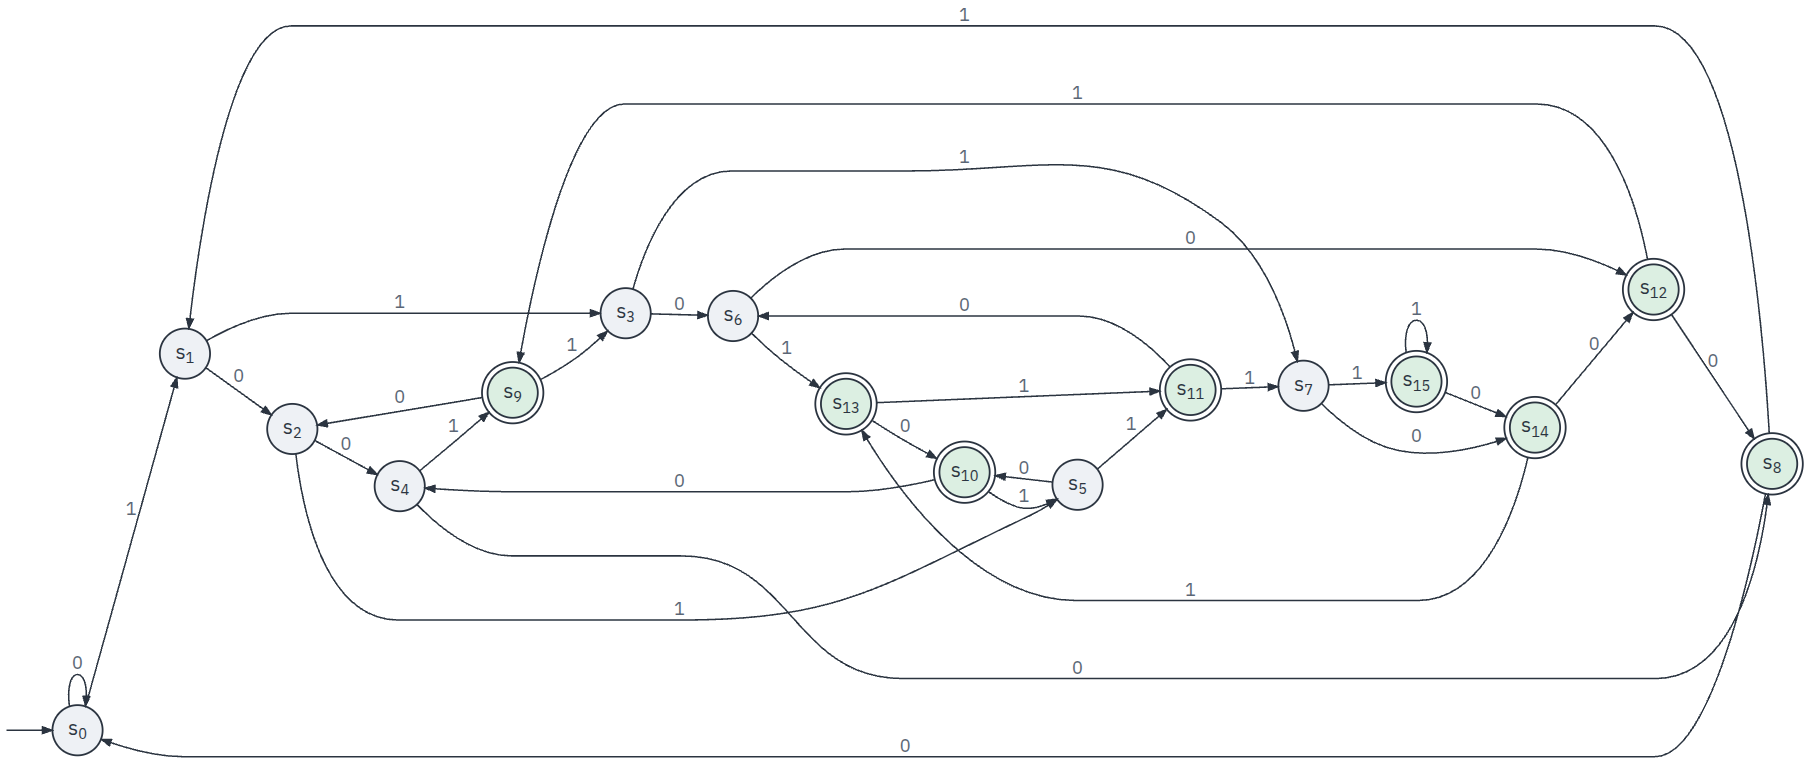
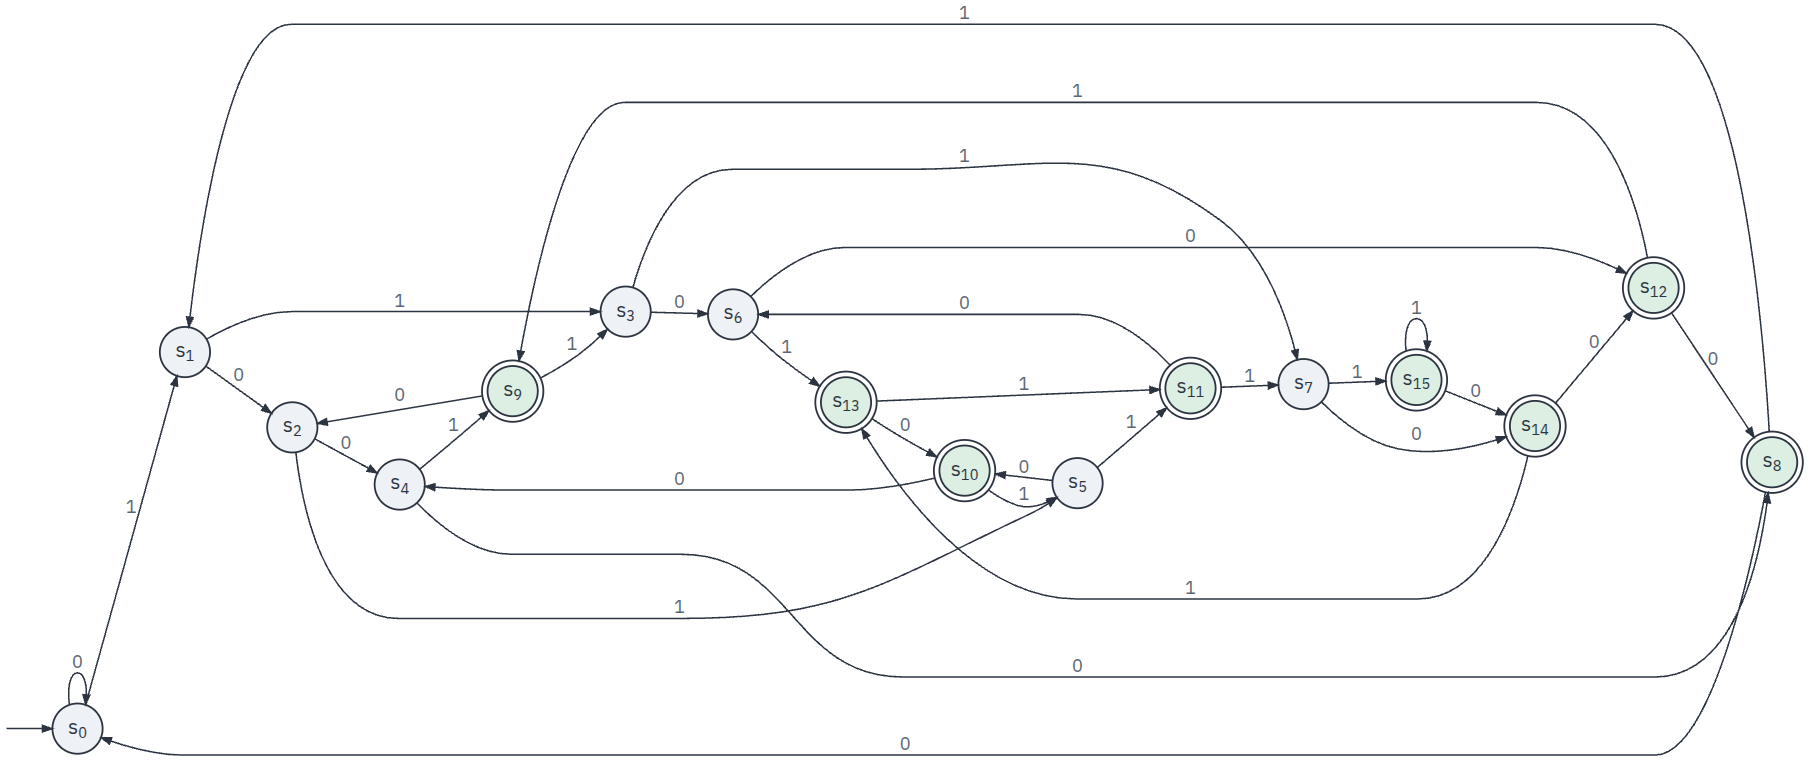
Front page: sections in a new order, programming languages as tiles, dark Automatron pictures

diff --git a/src/static/include/default.css b/src/static/include/default.css
@@ -4636,3 +4636,77 @@ img.minicpu-shot.medium {
 .tool-card-text span { color: var(--bs-secondary-color); font-size: 0.92em; }
 .tool-card-open { white-space: nowrap; color: var(--bs-primary); font-weight: 600; }
 .tool-card-open .bi { margin-left: 0.4em; }
+
+/* Programming languages on the start page (tiles: true in sections.yaml):
+   small tiles with logo, name and year. The logo sits on a light plate in
+   both themes, many logos are dark. */
+.lang-tiles {
+    display: grid;
+    grid-template-columns: repeat(auto-fill, minmax(8.5em, 1fr));
+    gap: 0.9em;
+    margin-bottom: 2.5em;
+}
+
+.lang-tile {
+    display: flex;
+    flex-direction: column;
+    align-items: center;
+    gap: 0.15em;
+    padding: 0.6em 0.6em 0.7em;
+    border: 1px solid var(--bs-border-color);
+    border-radius: 0.6em;
+    background: var(--bs-body-bg);
+    color: var(--bs-body-color);
+    text-decoration: none;
+    box-shadow: 0 0.1em 0.35em rgba(0, 0, 0, 0.06);
+    transition: box-shadow 0.2s ease;
+}
+
+.lang-tile:hover {
+    color: var(--bs-body-color);
+    box-shadow: 0 0.2em 0.7em rgba(0, 0, 0, 0.18);
+}
+
+.lang-tile-logo {
+    display: flex;
+    align-items: center;
+    justify-content: center;
+    width: 100%;
+    height: 4.4em;
+    margin-bottom: 0.35em;
+    padding: 0.35em;
+    border-radius: 0.4em;
+    background: #fff;
+}
+
+.lang-tile-logo img {
+    max-width: 100%;
+    max-height: 100%;
+    object-fit: contain;
+}
+
+.lang-tile-name {
+    font-weight: 600;
+    line-height: 1.2;
+    text-align: center;
+}
+
+.lang-tile-year {
+    font-size: 0.8em;
+    color: var(--bs-secondary-color);
+}
+
+@media (max-width: 575.999999px) {
+    .lang-tiles {
+        grid-template-columns: repeat(3, minmax(0, 1fr));
+        gap: 0.6em;
+    }
+
+    .lang-tile-logo {
+        height: 3.4em;
+    }
+
+    .lang-tile-name {
+        font-size: 0.9em;
+    }
+}

diff --git a/src/ruby/main.rb b/src/ruby/main.rb
@@ -4675,10 +4675,29 @@ class Main < Sinatra::Base
                     if section[:description]
                         io.puts "<p style='margin-top: -1em; margin-bottom: 1em;'>#{section[:description]}</p>"
                     end
-                    io.puts "<div class='row'>"
                     entries = section[:entries].reject do |entry|
                         (!DEVELOPMENT) && @@content[entry][:dev_only]
                     end
+                    # tiles: true (programming languages): small tiles with
+                    # logo, name and year instead of cards, all visible.
+                    if section[:tiles]
+                        io.puts "<div class='lang-tiles'>"
+                        entries.each do |slug|
+                            content = @@content[slug]
+                            title = content[:title].to_s
+                            name = title.sub(%r{<span[^>]*>.*?</span>}, '').strip
+                            year = title[/\((\d{4})\)/, 1]
+                            image = content[:image] || '/images/white.webp'
+                            Main.ensure_image_width(image, 1024) if image.start_with?('/cache/')
+                            io.puts "<a class='lang-tile' href='/#{slug}'>" \
+                                "<span class='lang-tile-logo'><img alt='' src='#{image.sub('.webp', '-1024.webp')}'></span>" \
+                                "<span class='lang-tile-name'>#{name}</span>" \
+                                "#{year ? "<span class='lang-tile-year'>#{year}</span>" : ''}</a>"
+                        end
+                        io.puts "</div>"
+                        next
+                    end
+                    io.puts "<div class='row'>"
                     # Every card the same size; a section ends where it ends.
                     entries.each do |slug|
                         content = @@content[slug]

diff --git a/CHANGELOG.md b/CHANGELOG.md
@@ -396,6 +396,17 @@ Jeder Eintrag sagt, was sich für Lernende, Lehrkräfte und Betreibende ändert.
 
 ### Geändert
 
+- Startseite neu geordnet, damit Grundlagen vor dem stehen, was sie braucht:
+  Erste Schritte (mit Dateien und Verzeichnissen und Git), Grafik & Spiele,
+  Web, Netze & Sicherheit (TCP/IP, Webserver, Pixelwand, Kryptographie, SQL
+  Injection), Datenbanken, Wie Computer rechnen (die Sandboxes, Automaten,
+  neuronales Netz, JPEG), Texte & Präsentationen, Programmiersprachen. Die
+  Abschnitte »Terminal & Git«, »Experimente« und »Sandboxes« gehen darin auf.
+- Die Programmiersprachen stehen als kleine Kacheln mit Logo, Name und Jahr
+  da statt als große Karten (`tiles: true` in `sections.yaml`); alle 18 sind
+  auf einen Blick zu sehen.
+- Endliche Automaten: Die Bilder aus Automatron gibt es auch im dunklen
+  Design.
 - Startseite: Alle Karten sind gleich groß, drei nebeneinander (zwei auf dem
   Tablet); ein Abschnitt endet, wo er endet, statt die letzten Karten zu
   strecken. Die Art (»Projekt (Ruby)«, »Labor« …) steht über dem Titel und ist

diff --git a/src/content/automata/automata.md b/src/content/automata/automata.md
@@ -311,6 +311,7 @@ press: Enter
 wait-for-text: kleinster DEA
 sleep: 1
 crop-element: #output_area svg:nth-of-type(3)
+variants: dark
 -->
 <img class='full' src='automatron-schloss.webp' alt='Automatron zeichnet fünf Zustände s0 bis s4 in einer Reihe, s4 grün mit doppeltem Rand. Mit 1 geht es von s0 nach s1, mit 2 nach s2, mit 1 nach s3, mit 3 nach s4. Zurück führen: 1 von s1 nach s1, 2 von s3 nach s2, 1 von s3 nach s1, 1 von s4 nach s1, alle übrigen Ziffern nach s0.'>
 
@@ -545,5 +546,6 @@ press: Enter
 wait-for-text: kleinster DEA
 sleep: 1
 crop-element: #output_area svg:nth-of-type(3)
+variants: dark
 -->
 <img class='teaser' hidden src='teaser.webp' alt='Ein Gewirr aus 16 Zuständen s0 bis s15 und Pfeilen mit 0 und 1, gezeichnet von Automatron: der kleinste DEA, der prüft, ob die viertletzte Ziffer einer Binärzahl eine 1 ist. Acht Zustände haben einen doppelten Rand.'>

diff --git a/docs/aktivitaet-schreiben.md b/docs/aktivitaet-schreiben.md
@@ -48,7 +48,9 @@ dem passenden Abschnitt:
 Nur eingetragene Seiten gibt es überhaupt. Soll ein ganzer Abschnitt
 vorübergehend nicht im Katalog stehen, aber erreichbar bleiben (etwa über
 einen Link im Profil), bekommt er `hidden: true`, statt auskommentiert zu
-werden.
+werden. Mit `tiles: true` zeigt ein Abschnitt seine Seiten als kleine Kacheln
+mit Logo, Name und Jahr statt als Karten, wie die Programmiersprachen; das
+Jahr steht dafür im Titel der Seite in Klammern.
 
 ## 2. Die Seite schreiben
 

diff --git a/src/content/sandbox-datenstrukturen/sandbox-datenstrukturen.md b/src/content/sandbox-datenstrukturen/sandbox-datenstrukturen.md
@@ -1,7 +1,7 @@
 <div class='meta'>
 image: data-structures-avl.webp
 kind: projekt
-topic: sandboxes
+topic: computing
 reference: [gitlab]
 template: https://github.com/specht/data-structures-sandbox.git
 class_repo: git@git.nhcham.org:specht/data-structure-sandbox-structures-2026.git

diff --git a/src/content/sandbox-cpu/sandbox-cpu.md b/src/content/sandbox-cpu/sandbox-cpu.md
@@ -1,7 +1,7 @@
 <div class='meta'>
 image: cpu-sandbox.webp
 kind: projekt
-topic: sandboxes
+topic: computing
 reference: [gitlab, minicpu, minicpu-io, minicpu-c]
 template: https://github.com/specht/cpu-sandbox.git
 class_repo: git@git.nhcham.org:specht/cpu-sandbox-programs-2026.git

diff --git a/src/content/sandbox-sortieren/sandbox-sortieren.md b/src/content/sandbox-sortieren/sandbox-sortieren.md
@@ -1,7 +1,7 @@
 <div class='meta'>
 image: sorting-sandbox.webp
 kind: projekt
-topic: sandboxes
+topic: computing
 reference: [gitlab]
 template: https://github.com/specht/sorting-sandbox.git
 class_repo: git@git.nhcham.org:specht/sorting-sandbox-algorithms-2026.git

diff --git a/src/content/hugo/hugo.md b/src/content/hugo/hugo.md
@@ -2,7 +2,7 @@
 image: startseite.webp
 kind: projekt
 language: Hugo
-topic: networks
+topic: web
 duration: 2 Doppelstunden
 requires: [static-website]
 reference: [yaml, html, css]

diff --git a/src/content/wetter/wetter.md b/src/content/wetter/wetter.md
@@ -2,7 +2,7 @@
 image: teaser.webp
 kind: projekt
 language: Ruby / JavaScript
-topic: networks
+topic: web
 duration: 2 Doppelstunden
 requires: [tcpip]
 reference: [http, json]
